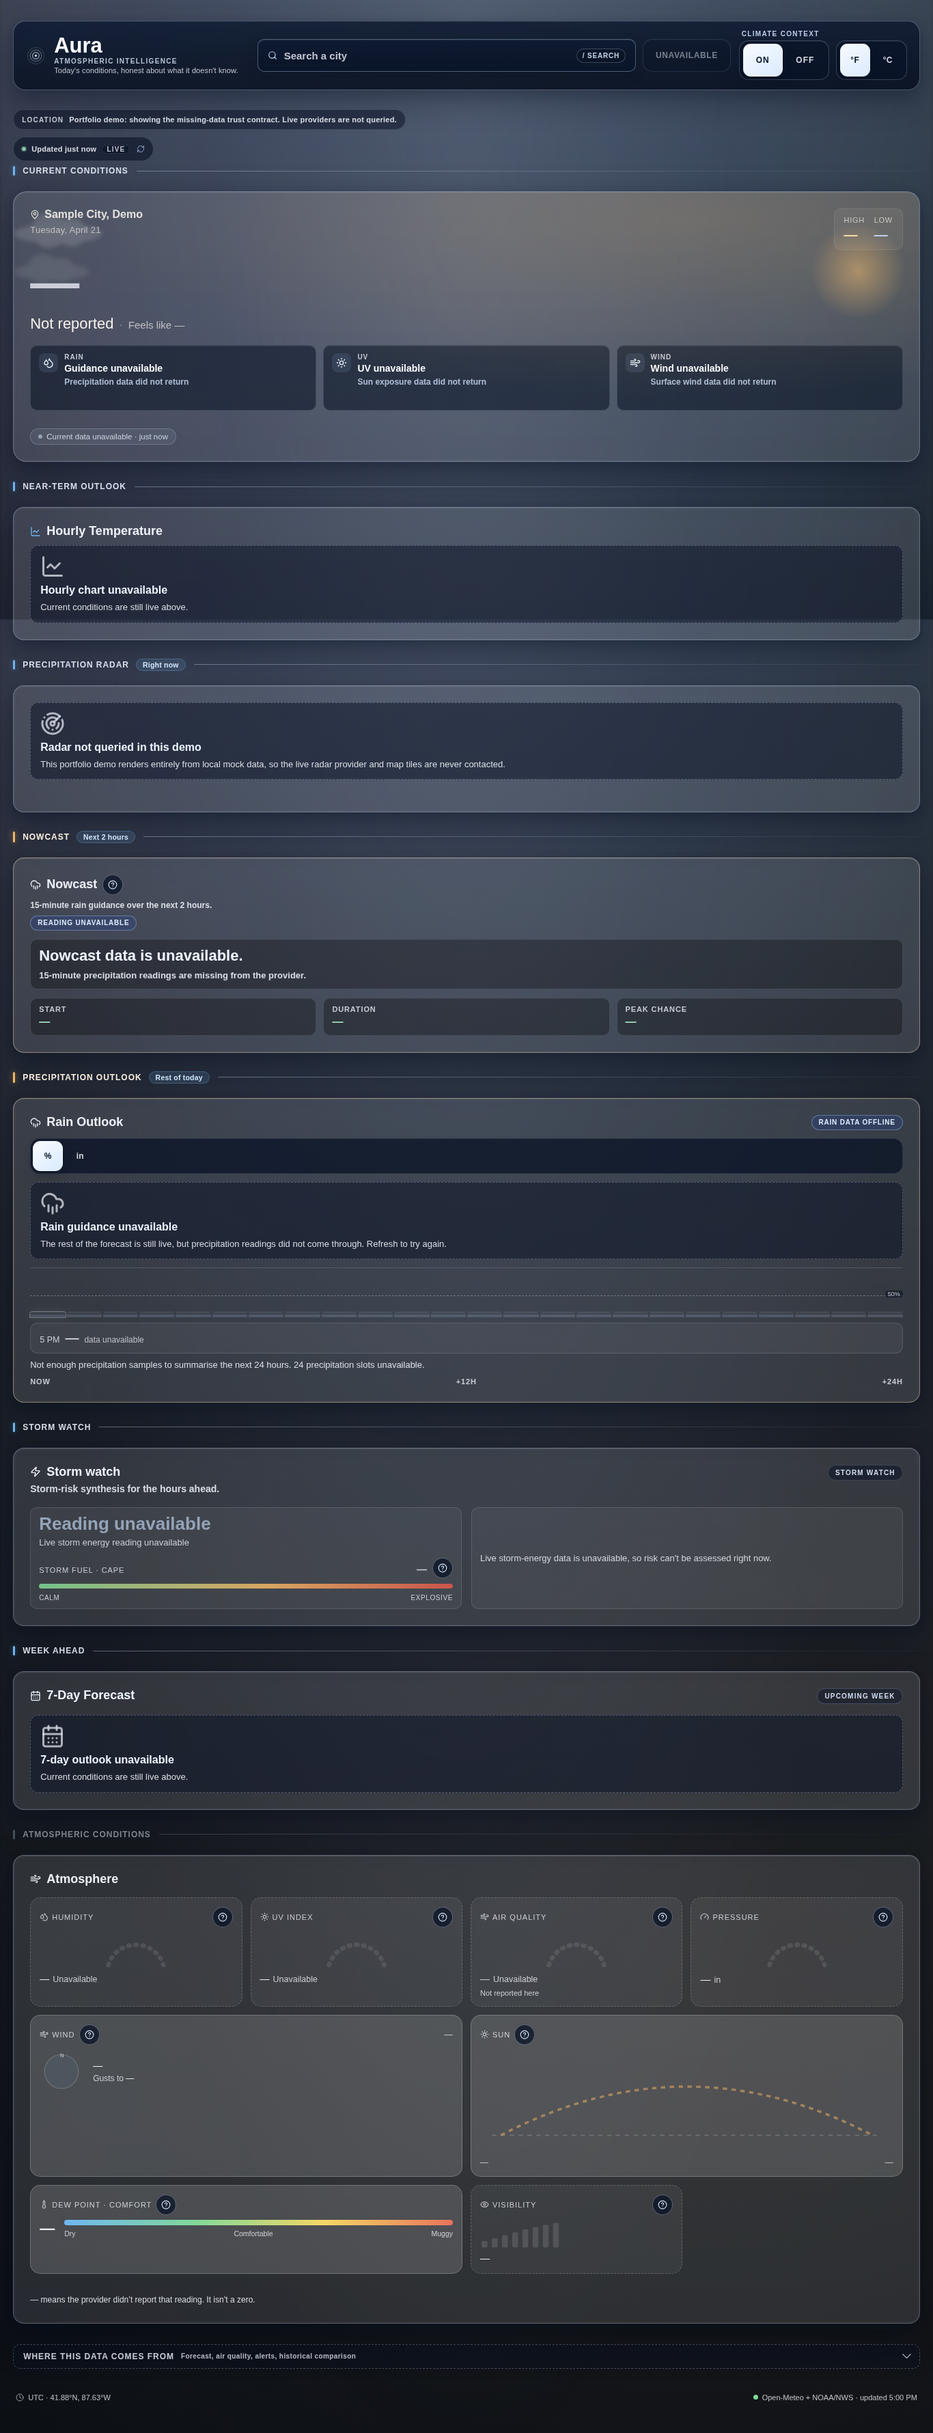
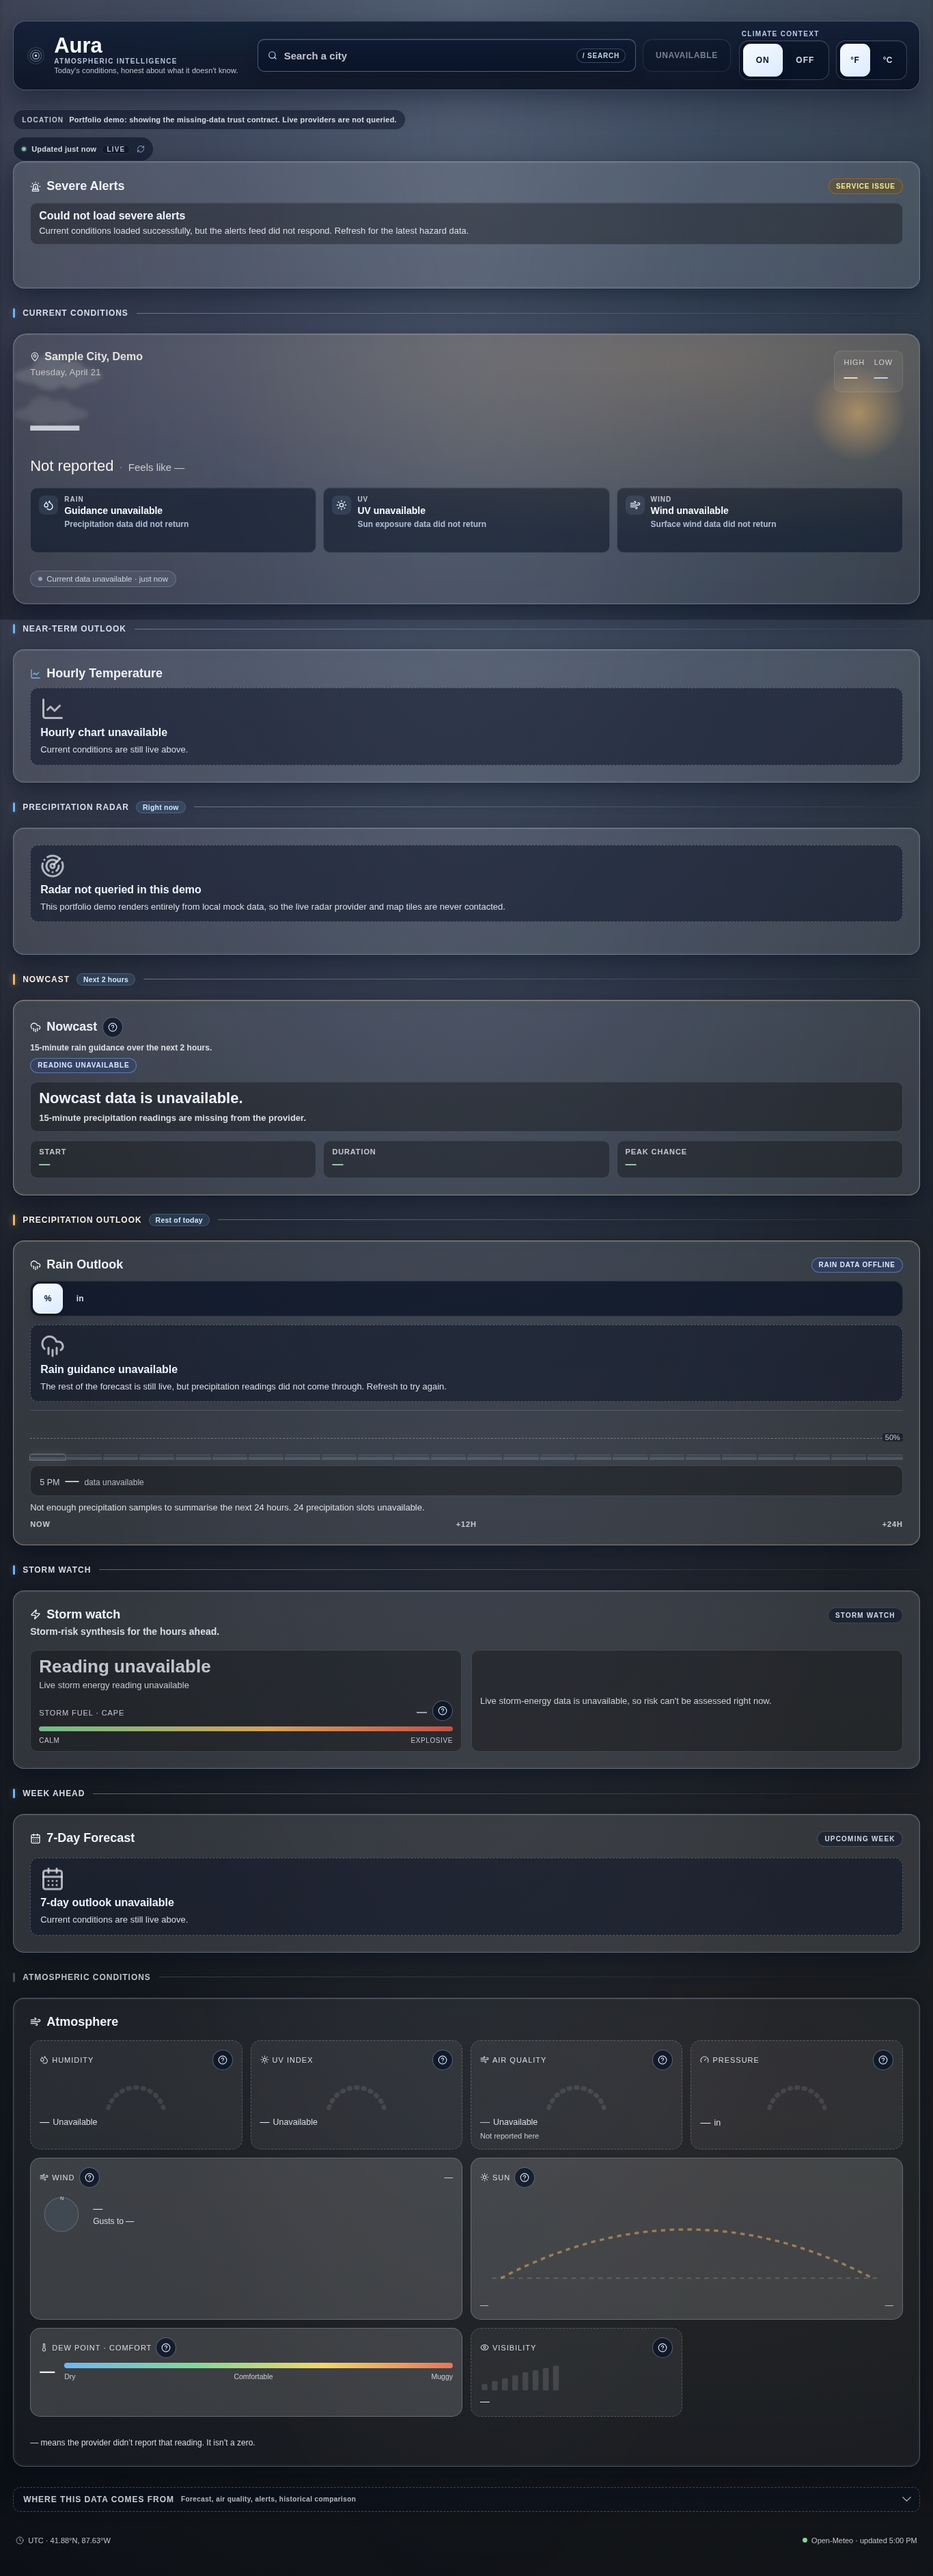
fix(trust): stop four confident claims made from data that is not there (#200)
Closes audit findings O-01, O-02, O-03 and O-04 — the four remaining
data-trust items in the optional set. Each states something the app has no
evidence for, which is the one class of defect the project's own contract
exists to prevent.

O-01 — the 7-day summary's trend phrase. A missing first or last daily max
fell back to delta = 0, which lands in the middle band and prints "Stable
week": a qualitative claim about the week produced by the absence of data.
The phrase is now omitted when either endpoint is missing; the rest of the
summary already reads correctly without it.

O-02 — the data-trust footer credited "Open-Meteo + NOAA/NWS"
unconditionally. NWS alerts are U.S.-only, so outside that coverage no NWS
request contributed anything to the page, and the one line whose entire job
is naming the data's origin was naming a source that supplied nothing.
SourceHealthPanel already branches on alertsStatus; the footer now makes the
same reading.

O-03 — with no weather at all, deriveWeatherScene asked for WMO code 0,
"Clear", so the app painted a confident sunny gradient over the state of
knowing nothing and useThemeColor carried it into the browser chrome.
UNKNOWN_WEATHER exists for exactly this and is now named directly.

O-04 — the ?mock=missing demo stamped alertsStatus "ready" and an
alertsFetchedAt of now, for a request it never sent, beside an aqi and a
climate already honestly marked unavailable. The route that exists to prove
[…]

diff --git a/src/components/ForecastCard.jsx b/src/components/ForecastCard.jsx
@@ -472,12 +472,26 @@ function buildWeekSummary(days, weekMin, weekMax, unit, timeZone, todayIso) {
     return FORECAST_EMPTY_MESSAGE;
   }
 
+  /*
+   * The trend is a claim about the week, so it needs both ends of the week
+   * to make it. A missing first or last max used to fall back to delta = 0,
+   * which lands in the middle band and prints "Stable week" -- a confident
+   * qualitative statement produced by the absence of data, which is the one
+   * thing the trust contract exists to prevent (audit O-01). Omit the phrase
+   * instead: the summary already reads correctly without it.
+   */
   const firstMax = days[0]?.temperatureMax;
   const lastMax = days[days.length - 1]?.temperatureMax;
-  const delta =
-    Number.isFinite(firstMax) && Number.isFinite(lastMax) ? lastMax - firstMax : 0;
-  const trendText =
-    delta >= 3 ? "Warming trend" : delta <= -3 ? "Cooling trend" : "Stable week";
+  const hasTrendEndpoints =
+    Number.isFinite(firstMax) && Number.isFinite(lastMax);
+  const delta = hasTrendEndpoints ? lastMax - firstMax : null;
+  const trendText = !hasTrendEndpoints
+    ? null
+    : delta >= 3
+    ? "Warming trend"
+    : delta <= -3
+    ? "Cooling trend"
+    : "Stable week";
   const wettestDay = days.reduce((highest, day) =>
     (day.rainChanceMax ?? -1) > (highest.rainChanceMax ?? -1)
       ? day
@@ -489,7 +503,7 @@ function buildWeekSummary(days, weekMin, weekMax, unit, timeZone, todayIso) {
       : wettestDay.rainChanceMax >= 25
       ? `${formatDayLabel(wettestDay.date, { timeZone, todayIso })} peaks at ${wettestDay.rainChanceMax}% rain chance`
       : "Rain chances stay mostly low";
-  const summaryParts = [trendText];
+  const summaryParts = trendText ? [trendText] : [];
   if (Number.isFinite(weekMin) && Number.isFinite(weekMax)) {
     const weekMinText = formatForecastTemp(weekMin, unit).text;
     const weekMaxText = formatForecastTemp(weekMax, unit).text;

diff --git a/src/components/DataTrustFooter.jsx b/src/components/DataTrustFooter.jsx
@@ -22,9 +22,26 @@ function DataTrustFooter({ weather, location, trustMeta }) {
   const updateTime = formatUpdateTime(trustMeta?.weatherFetchedAt);
 
   const locationStr = [timezone, coords].filter(Boolean).join(" · ");
+
+  /*
+   * Only credit NOAA/NWS where it actually supplied something. Its alerts
+   * are U.S.-only, so for most of the world alertsStatus is "unsupported"
+   * and no NWS request contributed anything to what is on screen -- the
+   * footer was naming a source the page had not used, on the one strip whose
+   * whole job is saying where the data came from (audit O-02).
+   * SourceHealthPanel already branches on this status; this is the same
+   * reading, applied to the line every viewer sees rather than the panel
+   * they have to open.
+   */
+  const alertsStatus = trustMeta?.alertsStatus ?? null;
+  const sources = ["Open-Meteo"];
+  if (alertsStatus === "ready") {
+    sources.push("NOAA/NWS");
+  }
+  const sourceNames = sources.join(" + ");
   const sourceStr = updateTime
-    ? `Open-Meteo + NOAA/NWS · updated ${updateTime}`
-    : "Open-Meteo + NOAA/NWS";
+    ? `${sourceNames} · updated ${updateTime}`
+    : sourceNames;
 
   return (
     <footer className="data-trust-footer" aria-label="Data sources and location">

diff --git a/src/domain/weatherScene.js b/src/domain/weatherScene.js
@@ -1,4 +1,4 @@
-import { getWeather, gradientCss } from "./weatherCodes.js";
+import { UNKNOWN_WEATHER, getWeather, gradientCss } from "./weatherCodes.js";
 
 export function deriveWeatherScene({ weather, loading, error }) {
   const hasWeatherData = Boolean(weather);
@@ -6,9 +6,16 @@ export function deriveWeatherScene({ weather, loading, error }) {
   const isBackgroundLoading = loading && hasWeatherData;
   const showGlobalError = Boolean(error) && !hasWeatherData;
   const showRefreshError = Boolean(error) && hasWeatherData;
+  /*
+   * With no weather at all this used to ask for code 0 -- "Clear" -- so the
+   * app painted a confident sunny gradient over the state of knowing
+   * nothing, and the theme colour followed it. getWeather already resolves
+   * a missing code to UNKNOWN_WEATHER for exactly this reason; naming it
+   * directly says the absence is deliberate (audit O-03).
+   */
   const weatherInfo = hasWeatherData
     ? getWeather(weather?.current?.conditionCode)
-    : getWeather(0);
+    : UNKNOWN_WEATHER;
   const background = gradientCss(weatherInfo.gradient);
 
   return {

diff --git a/src/mocks/missingData.js b/src/mocks/missingData.js
@@ -75,11 +75,17 @@ export function buildMissingWeatherModel() {
     rainAmount: nullArray(8),
   };
 
+  /*
+   * The demo queries no provider, so alerts cannot be "ready" -- that status
+   * means "we asked, and there is nothing". Saying it here made the demo
+   * that exists to prove the trust contract quietly break it, next to an aqi
+   * and climate already honestly marked unavailable (audit O-04).
+   */
   return {
     ...model,
     aqi: null,
     alerts: [],
-    alertsStatus: "ready",
+    alertsStatus: "unavailable",
   };
 }
 
@@ -120,8 +126,10 @@ export function buildMissingDashboardState({ now = Date.now() } = {}) {
       aqiStatus: "unavailable",
       climateFetchedAt: null,
       climateStatus: "unavailable",
-      alertsFetchedAt: now,
-      alertsStatus: "ready",
+      // No alerts request was made, so there is no time at which one
+       // returned. See the status note above.
+      alertsFetchedAt: null,
+      alertsStatus: "unavailable",
       forecastStatus: "ready",
       cacheStatus: "idle",
       cacheCapturedAt: null,

diff --git a/README.md b/README.md
@@ -168,7 +168,7 @@ npm run test:lighthouse
 ### Latest local QA snapshot
 
 - `npm run lint` passes
-- `npm test` passes (`<!--n:unit-tests-->751<!--/n-->` tests across <!--n:unit-suites-->170<!--/n--> suites, including the <!--n:render-tests-->291<!--/n--> React render tests via `jsdom` + `esbuild`)
+- `npm test` passes (`<!--n:unit-tests-->759<!--/n-->` tests across <!--n:unit-suites-->172<!--/n--> suites, including the <!--n:render-tests-->296<!--/n--> React render tests via `jsdom` + `esbuild`)
 - `npm run build` passes
 - `npm run test:e2e -- --workers=1` passes (Playwright checks covering smoke, screenshots, cached offline restore, offline app-shell reload, honest GPS labels, missing-data placeholder guard, demo-provider guard, unicode-escape leak guard, and axe-core a11y)
 - `npm run test:lighthouse` passes the local app-shell budget gate against the labelled `?mock=missing` demo route
@@ -433,7 +433,7 @@ Other strong stories:
 - **Resilient client composition** — three independent fetch tracks (forecast, supplemental AQI/alerts, historical archive) with separate AbortControllers and request-id stale-result guards, plus a per-panel error boundary so a lazy chunk failure cannot blank out the dashboard.
 - **Responsive, mobile-first dashboard** — the bento layout has explicit breakpoints at 1200/980/860/760/640/560/420 px, hover-only effects gated behind `(hover: hover)`, and `prefers-reduced-motion` overrides for every animation. Co-located component CSS replaces what was a 2k-line monolith.
 - **Accessibility past axe baseline** — scoped live regions (`role="alert"` for errors, `role="status"` for last-synced metadata), `aria-busy` on async buttons, decorative SVG cleanup, keyboard combobox for search, and a regression test that scans rendered text for literal `\uXXXX` escape sequences.
-- **QA maturity** — <!--n:unit-tests-->751<!--/n--> Node tests (including <!--n:render-tests-->291<!--/n--> React render tests) covering API normalization, source retries, climate comparison, location persistence, sync helpers, service worker registration/update/install-prompt flows, time-series snap, timezone-aware "now" framing, AQI/UV/weather-code lookup, trust-meta age formatting, render-level fallback states, and the null-coercion contract at every domain layer; <!--n:e2e-behavioural-->42<!--/n--> behavioral Playwright checks (plus <!--n:e2e-capture-->8<!--/n--> screenshot/asset capture jobs) for cached offline restore, offline app-shell reload, honest GPS labels, search, sync failure, regional alerts, missing-demo provider isolation, mobile overflow, text-clipping and hero-fit layout guards, axe-core (WCAG 2.1 AA + 2.2 AA), and the unicode-escape leak guard; CI Lighthouse budget gate.
+- **QA maturity** — <!--n:unit-tests-->759<!--/n--> Node tests (including <!--n:render-tests-->296<!--/n--> React render tests) covering API normalization, source retries, climate comparison, location persistence, sync helpers, service worker registration/update/install-prompt flows, time-series snap, timezone-aware "now" framing, AQI/UV/weather-code lookup, trust-meta age formatting, render-level fallback states, and the null-coercion contract at every domain layer; <!--n:e2e-behavioural-->42<!--/n--> behavioral Playwright checks (plus <!--n:e2e-capture-->8<!--/n--> screenshot/asset capture jobs) for cached offline restore, offline app-shell reload, honest GPS labels, search, sync failure, regional alerts, missing-demo provider isolation, mobile overflow, text-clipping and hero-fit layout guards, axe-core (WCAG 2.1 AA + 2.2 AA), and the unicode-escape leak guard; CI Lighthouse budget gate.
 
 ## Screenshot Guidance
 
